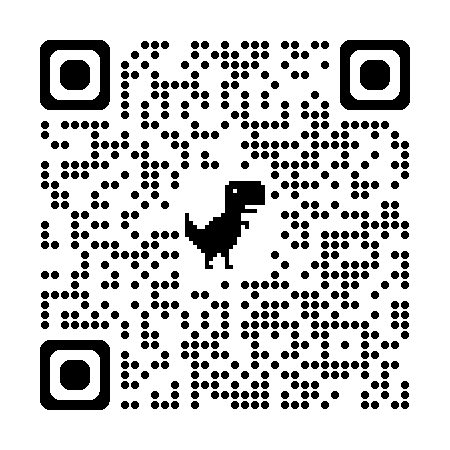
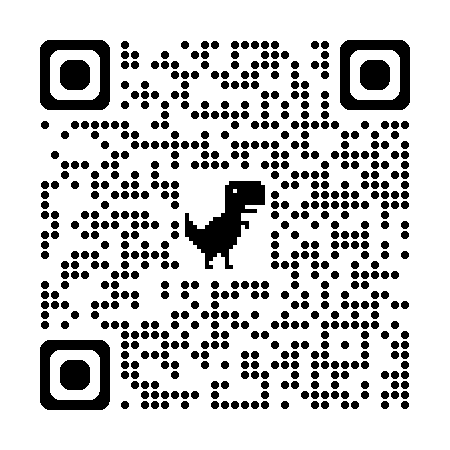
live schedule

diff --git a/src/app/components/landing.tsx b/src/app/components/landing.tsx
@@ -40,10 +40,20 @@ export default function Landing() {
               <p className="mt-6 text-lg leading-8 text-black">
                 Note: all times are in PST (California time)
               </p>
-              <h1 className="text-2xl mt-5">Discord</h1>
-              <div className="flex w-60 border-2 justify-center p-2 hover:border-blue-500 rounded-md">
-                <a href="https://discord.com/invite/V225BEAD9S">
+              <div className="flex lg:w-9/12 lg:flex-row flex-col border-2 justify-center p-2 rounded-md">
+                <a
+                  href="https://discord.com/invite/V225BEAD9S"
+                  className="border-2 hover:border-blue-500 w-[500px]"
+                >
+                  Discord
                   <img src="qrcode_discord.com.png" alt="qr" />
+                </a>
+                <a
+                  href="https://discord.com/invite/V225BEAD9S"
+                  className="border-2 hover:border-blue-500 w-[500px]"
+                >
+                  Hack Guide
+                  <img src="qrcode_docs.google.com.png" alt="qr hack" />
                 </a>
               </div>
             </div>

diff --git a/src/app/components/Schedule.tsx b/src/app/components/Schedule.tsx
@@ -9,10 +9,10 @@ export default function Schedule() {
       >
         <h1 className="p-2 m-2"> Schedule </h1>
         <div className="flex justify-center gap-2 flex-col lg:flex-row">
-          <div className="w-1/3 border-2 border-black">
+          <div className="lg:w-1/3 border-2 border-black">
             <img src="m11.png" alt="Picture of the author" />
           </div>
-          <div className="w-1/3 border-2 border-black">
+          <div className="lg:w-1/3 border-2 border-black">
             <img src="m12.png" alt="Picture of the author" />
           </div>
         </div>
